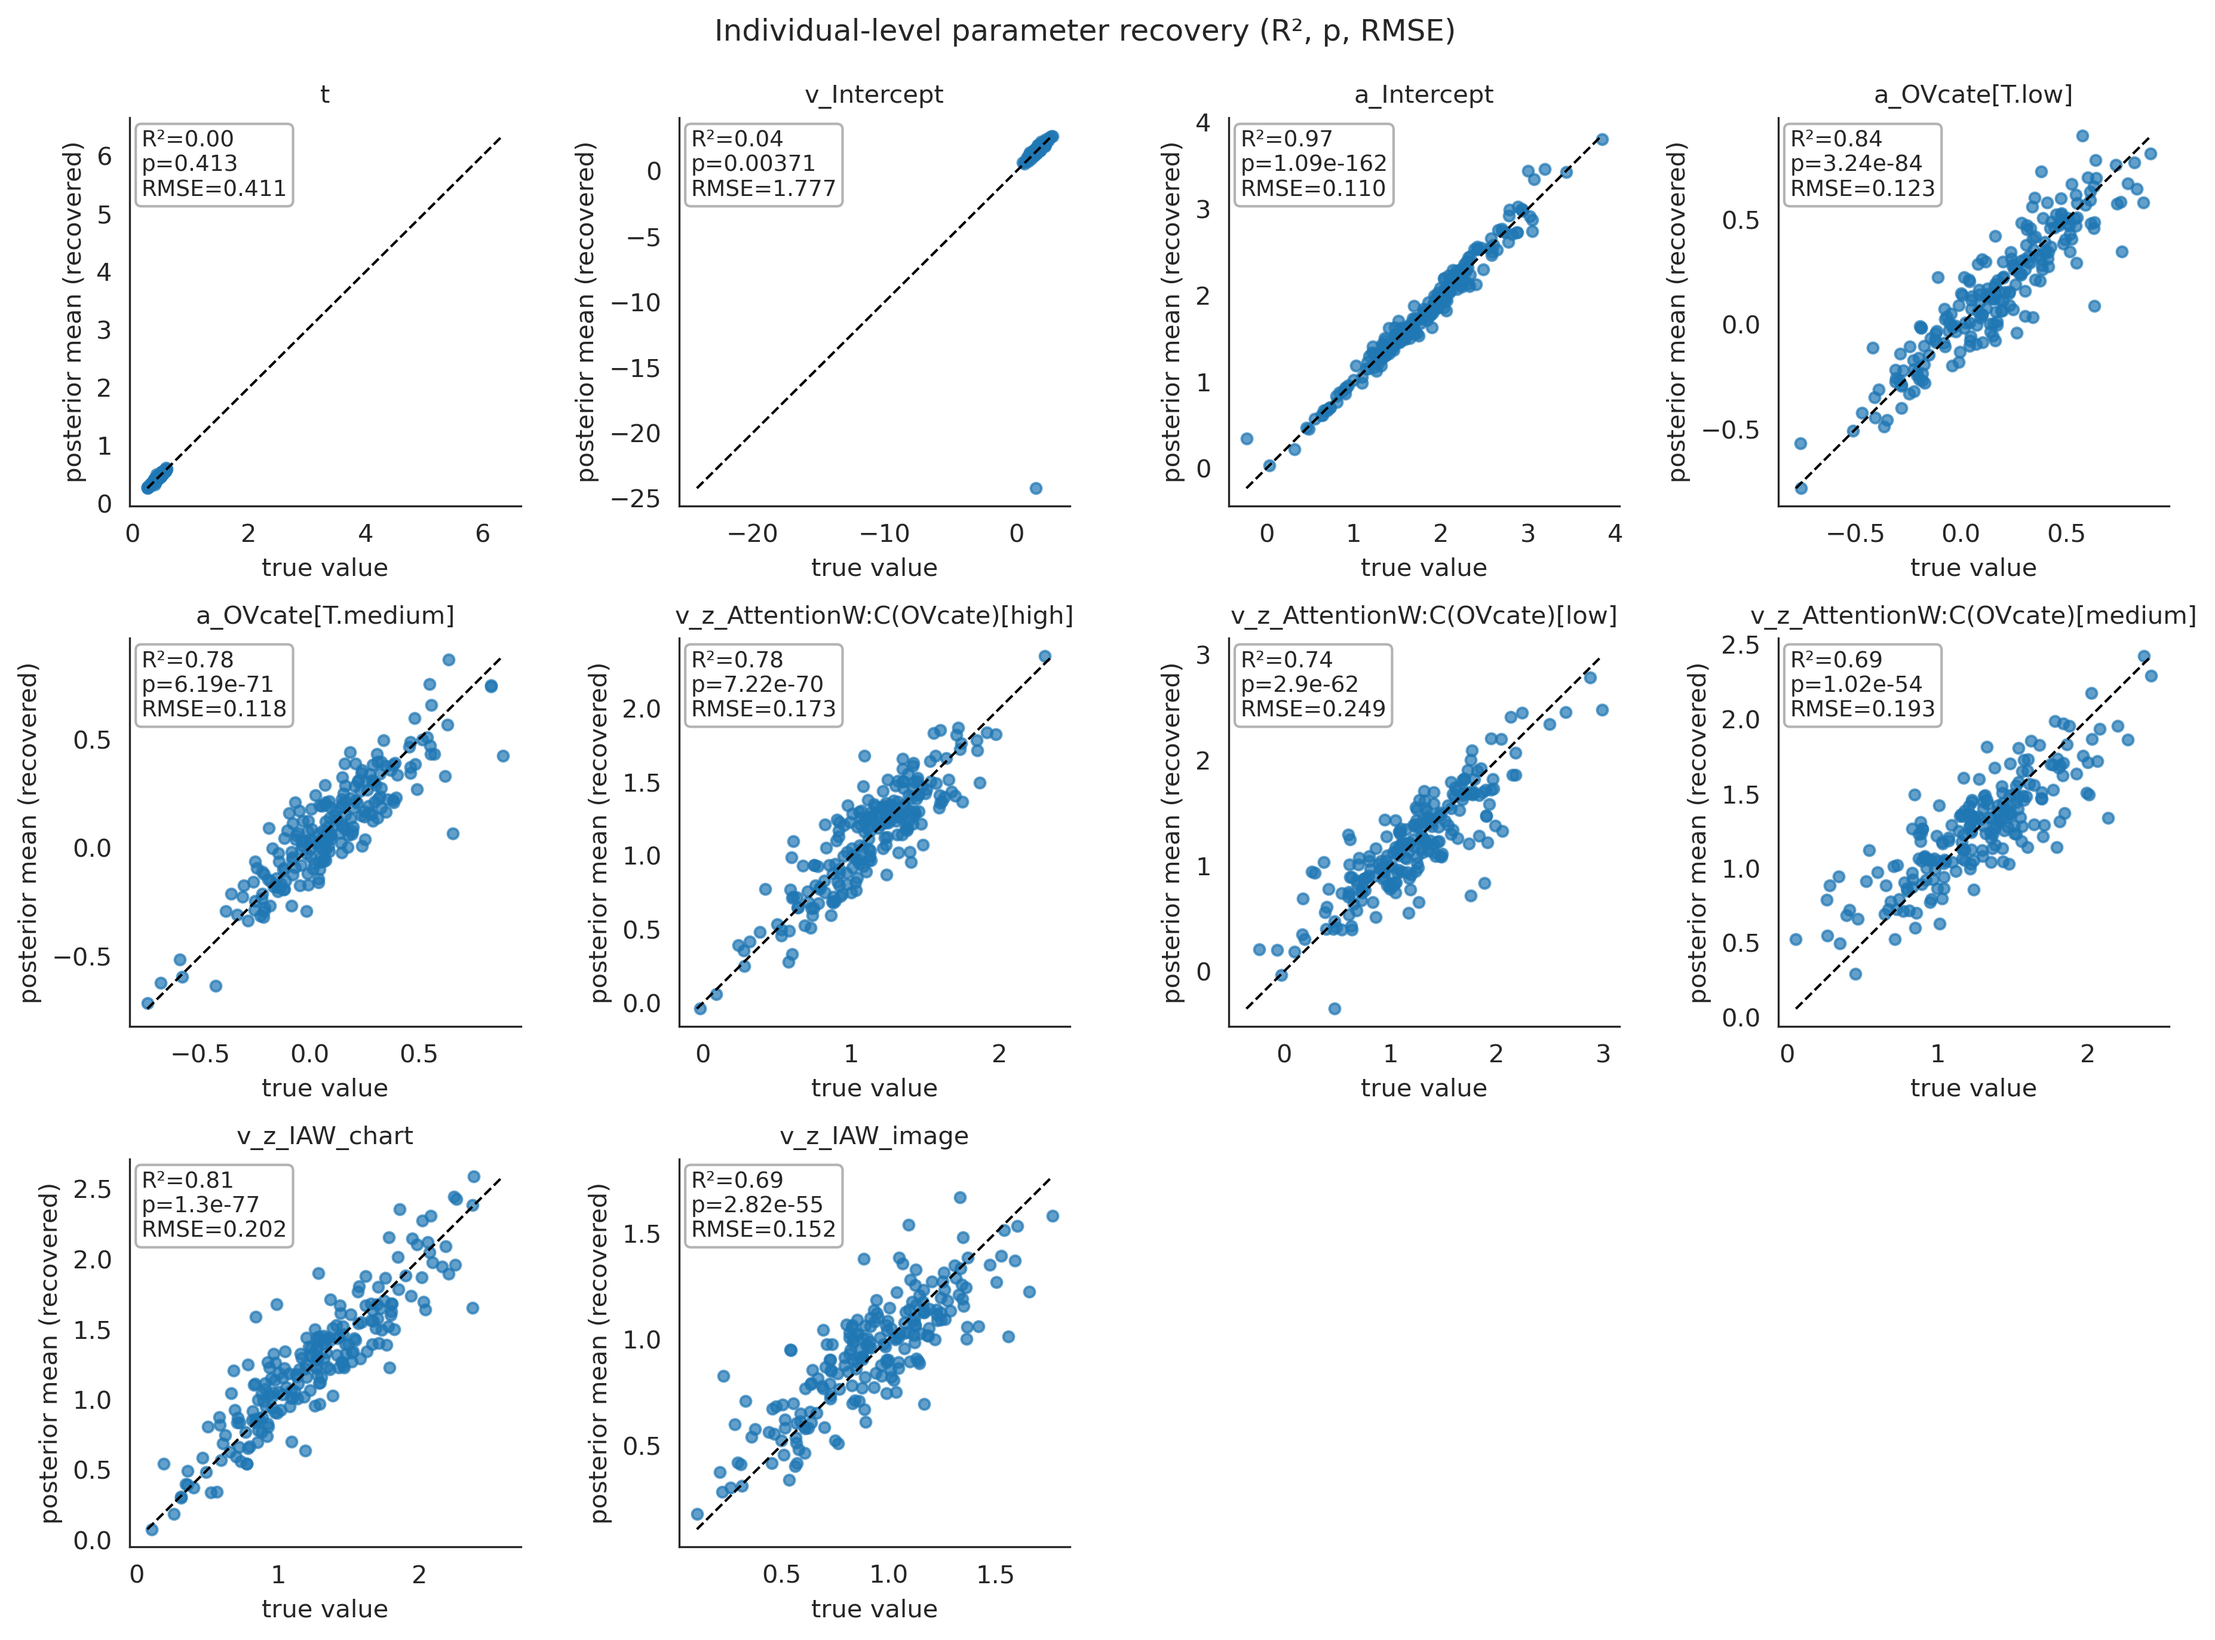
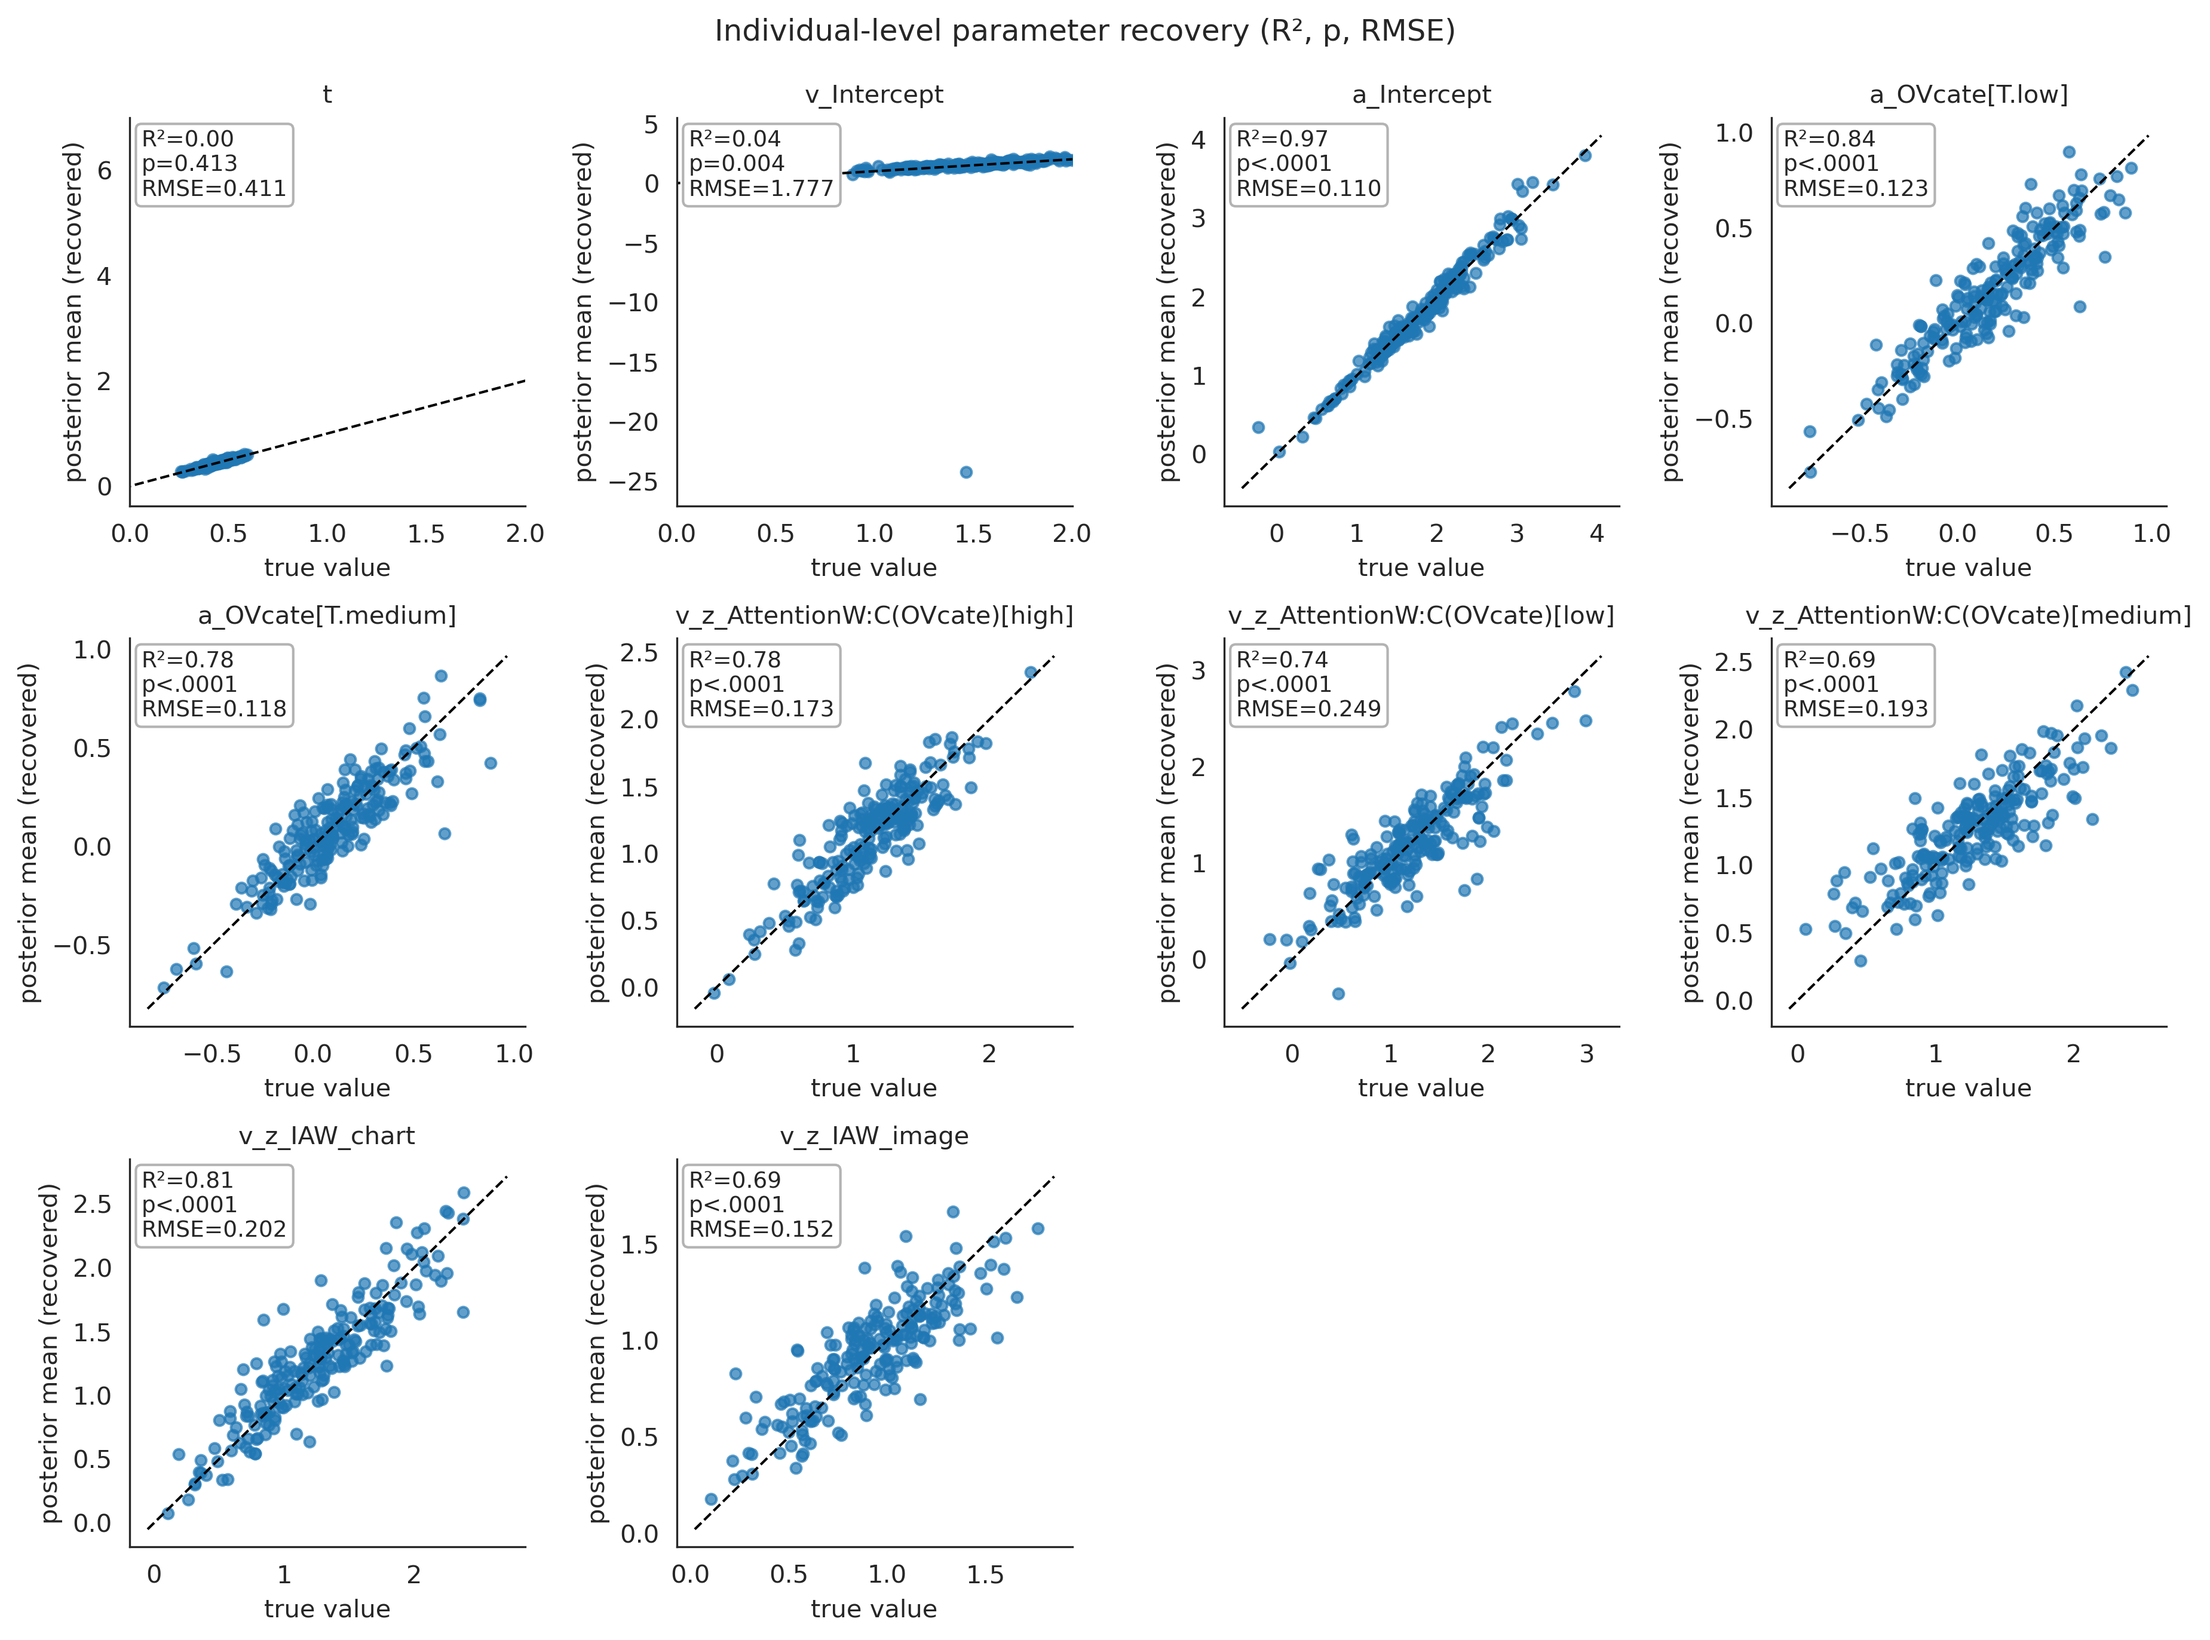
...

diff --git a/param_rec_individuals_plotting.py b/param_rec_individuals_plotting.py
@@ -46,26 +46,41 @@ def _p_text(p):
         return "p=NA"
     return "p<.0001" if p < 1e-4 else f"p={p:.3f}"
 
+# put this near the top
+AX_LIMS = {"t": (0.0, 1.0), "v_Intercept": (0.0, 2.5)}
+
+def _p_text(p):
+    if not np.isfinite(p):
+        return "p=NA"
+    return "p<.0001" if p < 1e-4 else f"p={p:.3f}"
+
 def facet_scatter(data, **k):
     ax = plt.gca()
     x = data["true"].to_numpy()
     y = data["recovered"].to_numpy()
     pname = str(data["parameter"].iloc[0])
 
-    # scatter
+    # scatter all points (out-of-range ones will be clipped by axis limits)
     ax.scatter(x, y, s=18, alpha=0.7)
 
-    # apply requested x limits for t and v_Intercept
-    if pname in ("t", "v_Intercept"):
-        ax.set_xlim(0, 2)
+    # enforce axes for t and v_Intercept; leave others alone
+    if pname in AX_LIMS:
+        lo, hi = AX_LIMS[pname]
+        ax.set_xlim(lo, hi)
+        ax.set_ylim(lo, hi)
+        # stats on in-frame points only
+        mask = (x >= lo) & (x <= hi) & (y >= lo) & (y <= hi)
+        x_s, y_s = x[mask], y[mask]
+    else:
+        x_s, y_s = x, y
 
-    # 45° reference line spanning current axes
+    # 45° reference line using the final limits
     x0, x1 = ax.get_xlim(); y0, y1 = ax.get_ylim()
-    lo = min(x0, y0); hi = max(x1, y1)
-    ax.plot([lo, hi], [lo, hi], "--", lw=1, color="k")
+    lo_line, hi_line = min(x0, y0), max(x1, y1)
+    ax.plot([lo_line, hi_line], [lo_line, hi_line], "--", lw=1, color="k")
 
     # stats box
-    s = regress_stats(x, y)
+    s = regress_stats(x_s, y_s)
     txt = (f"R²={s['R2']:.2f}\n{_p_text(s['p'])}\nRMSE={s['RMSE']:.3f}") if s["ok"] else f"N={s['N']}"
     ax.text(0.03, 0.97, txt, transform=ax.transAxes, ha="left", va="top", fontsize=9,
             bbox=dict(boxstyle="round,pad=0.25", fc="white", ec="0.7"))
